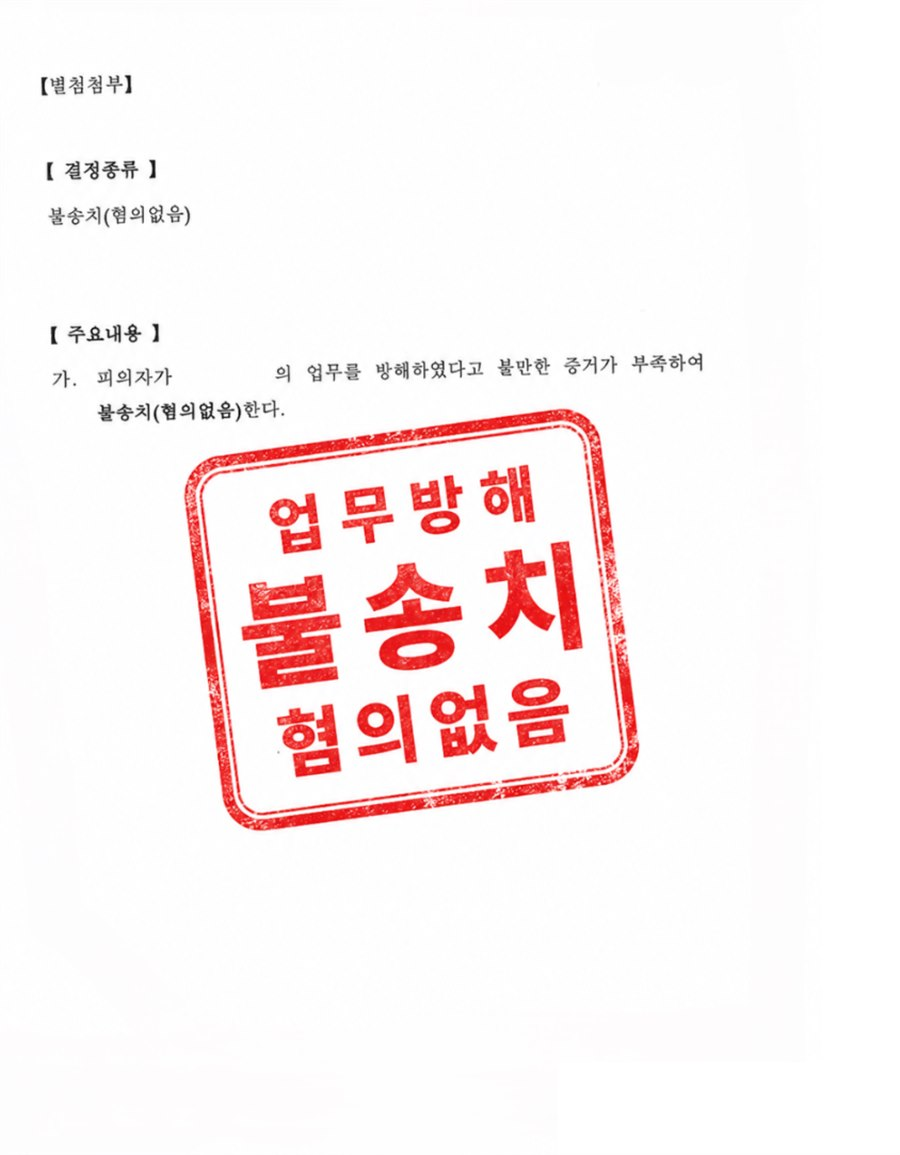
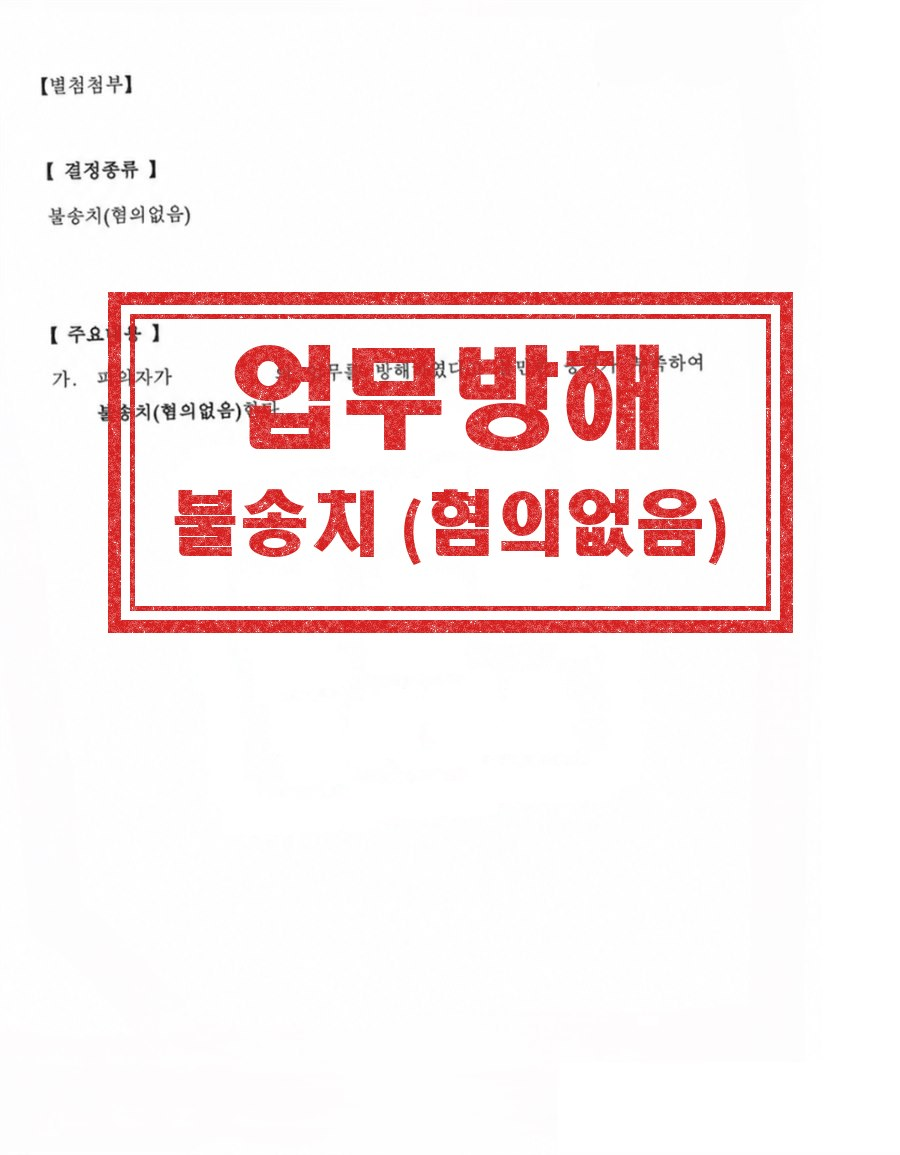
성공사례: 도장 통일(휴먼둥근헤드라인·고정 크기·무회전) 및 중앙 정렬 썸네일 17장 추가
Claude-Session: https://claude.ai/code/session_019BpyvRfw1kgAhxY1Ym6REe

Changed region(s): [[0.0933, 0.2494, 0.9022, 0.7169]]

diff --git a/results.html b/results.html
@@ -134,7 +134,7 @@
 
         <article class="case" data-cat="criminal">
           <a class="case__fig" href="images/case-01.jpg" target="_blank" rel="noopener">
-            <img src="images/case-01.jpg" alt="전북군산경찰서 불송치 결정서 — 건조물침입·권리행사방해 혐의없음" width="900" height="986" loading="lazy">
+            <img src="images/case-01-thumb.jpg" alt="전북군산경찰서 불송치 결정서 — 건조물침입·권리행사방해 혐의없음" width="1200" height="900" loading="lazy">
           </a>
           <div class="case__body">
             <div class="case__top"><span class="case__tag">형사 · 군형사</span></div>
@@ -149,7 +149,7 @@
 
         <article class="case" data-cat="criminal">
           <a class="case__fig" href="images/case-02.jpg" target="_blank" rel="noopener">
-            <img src="images/case-02.jpg" alt="불송치 결정서 별첨 — 허위사실적시 명예훼손 혐의없음" width="900" height="868" loading="lazy">
+            <img src="images/case-02-thumb.jpg" alt="불송치 결정서 별첨 — 허위사실적시 명예훼손 혐의없음" width="1200" height="900" loading="lazy">
           </a>
           <div class="case__body">
             <div class="case__top"><span class="case__tag">형사 · 군형사</span></div>
@@ -165,7 +165,7 @@
 
         <article class="case" data-cat="criminal">
           <a class="case__fig" href="images/case-03.jpg" target="_blank" rel="noopener">
-            <img src="images/case-03.jpg" alt="불송치 결정서 별첨 — 사문서위조 및 동행사 혐의없음" width="900" height="1229" loading="lazy">
+            <img src="images/case-03-thumb.jpg" alt="불송치 결정서 별첨 — 사문서위조 및 동행사 혐의없음" width="1200" height="900" loading="lazy">
           </a>
           <div class="case__body">
             <div class="case__top"><span class="case__tag">형사 · 군형사</span></div>
@@ -181,7 +181,7 @@
 
         <article class="case" data-cat="criminal">
           <a class="case__fig" href="images/case-04.jpg" target="_blank" rel="noopener">
-            <img src="images/case-04.jpg" alt="불송치 결정서 별첨 — 업무방해 혐의없음" width="900" height="1155" loading="lazy">
+            <img src="images/case-04-thumb.jpg" alt="불송치 결정서 별첨 — 업무방해 혐의없음" width="1200" height="900" loading="lazy">
           </a>
           <div class="case__body">
             <div class="case__top"><span class="case__tag">형사 · 군형사</span></div>
@@ -198,7 +198,7 @@
 
         <article class="case" data-cat="criminal">
           <a class="case__fig" href="images/case-05.jpg" target="_blank" rel="noopener">
-            <img src="images/case-05.jpg" alt="군검찰 피의사건 처분 결과 통지 — 직무수행군인등 상해 기소유예" width="900" height="1270" loading="lazy">
+            <img src="images/case-05-thumb.jpg" alt="군검찰 피의사건 처분 결과 통지 — 직무수행군인등 상해 기소유예" width="1200" height="900" loading="lazy">
           </a>
           <div class="case__body">
             <div class="case__top"><span class="case__tag">형사 · 군형사</span></div>
@@ -214,7 +214,7 @@
 
         <article class="case" data-cat="criminal">
           <a class="case__fig" href="images/case-06.jpg" target="_blank" rel="noopener">
-            <img src="images/case-06.jpg" alt="전북군산경찰서 수사결과 통지서 — 강제추행 고소대리, 검찰 송치 결정" width="900" height="1216" loading="lazy">
+            <img src="images/case-06-thumb.jpg" alt="전북군산경찰서 수사결과 통지서 — 강제추행 고소대리, 검찰 송치 결정" width="1200" height="900" loading="lazy">
           </a>
           <div class="case__body">
             <div class="case__top"><span class="case__tag">형사 · 군형사</span></div>
@@ -230,7 +230,7 @@
 
         <article class="case" data-cat="criminal">
           <a class="case__fig" href="images/case-07.jpg" target="_blank" rel="noopener">
-            <img src="images/case-07.jpg" alt="수사결과 통지서 별첨 — 체포 고소대리, 송치(불구속) 결정" width="900" height="1183" loading="lazy">
+            <img src="images/case-07-thumb.jpg" alt="수사결과 통지서 별첨 — 체포 고소대리, 송치(불구속) 결정" width="1200" height="900" loading="lazy">
           </a>
           <div class="case__body">
             <div class="case__top"><span class="case__tag">형사 · 군형사</span></div>
@@ -246,7 +246,7 @@
 
         <article class="case" data-cat="criminal">
           <a class="case__fig" href="images/case-08.jpg" target="_blank" rel="noopener">
-            <img src="images/case-08.jpg" alt="구속영장청구서 — 보이스피싱 구속영장 청구기각" width="900" height="1213" loading="lazy">
+            <img src="images/case-08-thumb.jpg" alt="구속영장청구서 — 보이스피싱 구속영장 청구기각" width="1200" height="900" loading="lazy">
           </a>
           <div class="case__body">
             <div class="case__top"><span class="case__tag">형사 · 군형사</span></div>
@@ -262,7 +262,7 @@
 
         <article class="case" data-cat="criminal">
           <a class="case__fig" href="images/case-09.jpg" target="_blank" rel="noopener">
-            <img src="images/case-09.jpg" alt="전북군산경찰서 수사결과 통지서 — 사기 불송치(혐의없음)" width="900" height="1297" loading="lazy">
+            <img src="images/case-09-thumb.jpg" alt="전북군산경찰서 수사결과 통지서 — 사기 불송치(혐의없음)" width="1200" height="900" loading="lazy">
           </a>
           <div class="case__body">
             <div class="case__top"><span class="case__tag">형사 · 군형사</span></div>
@@ -278,7 +278,7 @@
 
         <article class="case" data-cat="criminal">
           <a class="case__fig" href="images/case-10.jpg" target="_blank" rel="noopener">
-            <img src="images/case-10.jpg" alt="전주지방법원 군산지원 판결 — 사기·공갈·음란물유포 집행유예" width="1442" height="1091" loading="lazy">
+            <img src="images/case-10-thumb.jpg" alt="전주지방법원 군산지원 판결 — 사기·공갈·음란물유포 집행유예" width="1200" height="900" loading="lazy">
           </a>
           <div class="case__body">
             <div class="case__top"><span class="case__tag">형사 · 군형사</span></div>
@@ -294,7 +294,7 @@
 
         <article class="case" data-cat="criminal">
           <a class="case__fig" href="images/case-11.jpg" target="_blank" rel="noopener">
-            <img src="images/case-11.jpg" alt="강원영월경찰서 수사결과 통지서 — 사기 불송치(혐의없음)" width="900" height="1239" loading="lazy">
+            <img src="images/case-11-thumb.jpg" alt="강원영월경찰서 수사결과 통지서 — 사기 불송치(혐의없음)" width="1200" height="900" loading="lazy">
           </a>
           <div class="case__body">
             <div class="case__top"><span class="case__tag">형사 · 군형사</span></div>
@@ -309,7 +309,7 @@
 
         <article class="case" data-cat="criminal">
           <a class="case__fig" href="images/case-12.jpg" target="_blank" rel="noopener">
-            <img src="images/case-12.jpg" alt="전북군산경찰서 수사결과 통지서 — 특수강간 불송치(혐의없음)" width="900" height="1345" loading="lazy">
+            <img src="images/case-12-thumb.jpg" alt="전북군산경찰서 수사결과 통지서 — 특수강간 불송치(혐의없음)" width="1200" height="900" loading="lazy">
           </a>
           <div class="case__body">
             <div class="case__top"><span class="case__tag">형사 · 군형사</span></div>
@@ -326,7 +326,7 @@
 
         <article class="case" data-cat="criminal">
           <a class="case__fig" href="images/case-13.jpg" target="_blank" rel="noopener">
-            <img src="images/case-13.jpg" alt="전주지방법원 군산지원 판결 — 대부업법위반 집행유예" width="900" height="1279" loading="lazy">
+            <img src="images/case-13-thumb.jpg" alt="전주지방법원 군산지원 판결 — 대부업법위반 집행유예" width="1200" height="900" loading="lazy">
           </a>
           <div class="case__body">
             <div class="case__top"><span class="case__tag">형사 · 군형사</span></div>
@@ -341,7 +341,7 @@
 
         <article class="case" data-cat="criminal">
           <a class="case__fig" href="images/case-14.jpg" target="_blank" rel="noopener">
-            <img src="images/case-14.jpg" alt="전주지방검찰청 군산지청 불기소이유통지 — 특가법위반(도주치상) 혐의없음" width="900" height="1272" loading="lazy">
+            <img src="images/case-14-thumb.jpg" alt="전주지방검찰청 군산지청 불기소이유통지 — 특가법위반(도주치상) 혐의없음" width="1200" height="900" loading="lazy">
           </a>
           <div class="case__body">
             <div class="case__top"><span class="case__tag">형사 · 군형사</span></div>
@@ -357,7 +357,7 @@
 
         <article class="case" data-cat="criminal">
           <a class="case__fig" href="images/case-15.jpg" target="_blank" rel="noopener">
-            <img src="images/case-15.jpg" alt="전주지방법원 군산지원 판결 — 특가법위반(보복협박등) 집행유예" width="900" height="1289" loading="lazy">
+            <img src="images/case-15-thumb.jpg" alt="전주지방법원 군산지원 판결 — 특가법위반(보복협박등) 집행유예" width="1200" height="900" loading="lazy">
           </a>
           <div class="case__body">
             <div class="case__top"><span class="case__tag">형사 · 군형사</span></div>
@@ -373,7 +373,7 @@
 
         <article class="case" data-cat="criminal">
           <a class="case__fig" href="images/case-16.jpg" target="_blank" rel="noopener">
-            <img src="images/case-16.jpg" alt="전주지방법원 제2형사부 판결 — 교특법위반(치상)·음주운전 원심파기 집행유예" width="900" height="1282" loading="lazy">
+            <img src="images/case-16-thumb.jpg" alt="전주지방법원 제2형사부 판결 — 교특법위반(치상)·음주운전 원심파기 집행유예" width="1200" height="900" loading="lazy">
           </a>
           <div class="case__body">
             <div class="case__top"><span class="case__tag">형사 · 군형사</span></div>
@@ -389,7 +389,7 @@
 
         <article class="case" data-cat="criminal">
           <a class="case__fig" href="images/case-17.jpg" target="_blank" rel="noopener">
-            <img src="images/case-17.jpg" alt="전주지방법원 군산지원 판결 — 교통사고처리특례법위반(치상) 집행유예" width="900" height="1274" loading="lazy">
+            <img src="images/case-17-thumb.jpg" alt="전주지방법원 군산지원 판결 — 교통사고처리특례법위반(치상) 집행유예" width="1200" height="900" loading="lazy">
           </a>
           <div class="case__body">
             <div class="case__top"><span class="case__tag">형사 · 군형사</span></div>

diff --git a/css/style.css b/css/style.css
@@ -1151,7 +1151,7 @@ body.nav-open { overflow: hidden; }
   width: 100%;
   aspect-ratio: 4 / 3;
   object-fit: cover;
-  object-position: 50% 30%;
+  object-position: 50% 50%;
   transition: transform .6s var(--ease);
 }
 .case__fig:hover img { transform: scale(1.035); }

diff --git a/tools/restamp.py b/tools/restamp.py
@@ -1,0 +1,127 @@
+#!/usr/bin/env python3
+"""성공사례 썸네일: 기존 빨간 도장 제거 → 통일된 도장 합성.
+- 서체: 휴먼둥근헤드라인 (HMKMRHD.TTF)
+- 도장 크기 고정(이미지 폭의 74%), 윗줄·아랫줄 같은 글자 크기, 기울기 없음, 겹테두리
+usage: restamp.py <in.jpg> <out.jpg> "<윗줄(사건명)>" "<아랫줄(결과)>"
+"""
+import sys, numpy as np
+from PIL import Image, ImageDraw, ImageFont, ImageFilter
+
+FONT = "/home/claude/fonts/HMKMRHD.TTF"
+FONT2 = "/usr/share/fonts/opentype/noto/NotoSansCJK-Black.ttc"   # 괄호·기호용(휴먼둥근헤드라인은 기호가 전각)
+RED = (214, 32, 32)
+SYM = set("()·,./-")
+
+def segments(text, size):
+    """글자를 (문자열, 폰트) 조각으로 나눔. 공백은 글자 크기의 28% 간격으로 처리."""
+    fk = ImageFont.truetype(FONT, size)
+    fs = ImageFont.truetype(FONT2, size=int(size * 0.92), index=2)
+    out, cur, curf = [], "", None
+    for ch in text:
+        if ch == " ":
+            if cur: out.append((cur, curf)); cur, curf = "", None
+            out.append((None, int(size * 0.28)))
+            continue
+        f = fs if ch in SYM else fk
+        if curf is None or f is curf: cur += ch; curf = f
+        else: out.append((cur, curf)); cur, curf = ch, f
+    if cur: out.append((cur, curf))
+    return out
+
+def seg_width(segs):
+    d = ImageDraw.Draw(Image.new("RGB", (4, 4)))
+    w = 0
+    for t, f in segs:
+        w += f if t is None else d.textbbox((0, 0), t, font=f)[2] - d.textbbox((0, 0), t, font=f)[0]
+    return w
+
+def draw_line(d, cx, cy, text, size, fill):
+    segs = segments(text, size)
+    x = cx - seg_width(segs) / 2
+    for t, f in segs:
+        if t is None: x += f; continue
+        bb = d.textbbox((0, 0), t, font=f)
+        d.text((x - bb[0], cy), t, font=f, fill=fill, anchor="lm")
+        x += bb[2] - bb[0]
+
+def clean(im):
+    a = np.array(im.convert("RGB")).astype(int)
+    r, g, b = a[..., 0], a[..., 1], a[..., 2]
+    sat = r - np.minimum(g, b)
+    red = ((sat > 10) & (r > 80)) | ((sat > 2) & (r > 190))
+    m = Image.fromarray((red * 255).astype("uint8")).filter(ImageFilter.MaxFilter(5))
+    a[np.array(m) > 0] = [255, 255, 255]
+    return Image.fromarray(a.astype("uint8"))
+
+def size_fit(text, size, limit):
+    while seg_width(segments(text, size)) > limit and size > 30:
+        size -= 2
+    return size
+
+def stamp(im, top, bottom, cy=None):
+    W, H = im.size
+    base = W / 900
+    # 고정 치수
+    box_w = int(W * 0.70)
+    outer, space, inner = int(13 * base), int(9 * base), int(5 * base)
+    frame = outer + space + inner
+    pad_y, gap = int(22 * base), int(6 * base)
+    size = int(110 * base)
+    text_limit = box_w - int(30 * base) * 2
+    st = size_fit(top, size, text_limit)
+    sb = size_fit(bottom, size, text_limit)
+    line_h = int(size * 1.08)                       # 두 줄 높이는 글자 크기와 무관하게 고정
+    box_h = line_h * 2 + gap + pad_y * 2
+
+    L = Image.new("RGBA", (box_w + frame * 2 + 20, box_h + frame * 2 + 20), (0, 0, 0, 0))
+    d = ImageDraw.Draw(L)
+    ox = oy = 10
+    d.rectangle([ox, oy, ox + box_w + frame * 2, oy + box_h + frame * 2], outline=RED + (255,), width=outer)
+    d.rectangle([ox + outer + space, oy + outer + space,
+                 ox + outer + space + box_w + inner * 2, oy + outer + space + box_h + inner * 2],
+                outline=RED + (255,), width=inner)
+    cx = ox + frame + box_w / 2
+    y1 = oy + frame + pad_y + line_h / 2
+    y2 = y1 + line_h + gap
+    draw_line(d, cx, y1, top, st, RED + (255,))
+    draw_line(d, cx, y2, bottom, sb, RED + (255,))
+
+    # 고무도장 질감
+    rng = np.random.default_rng(13)
+    n1 = Image.fromarray((rng.random((L.height // 3 + 1, L.width // 3 + 1)) * 255).astype("uint8")).resize(L.size, Image.BILINEAR)
+    n2 = Image.fromarray((rng.random((L.height, L.width)) * 255).astype("uint8"))
+    tex = np.array(n1).astype(float) / 255 * 0.55 + np.array(n2).astype(float) / 255 * 0.45
+    arr = np.array(L); al = arr[..., 3].astype(float)
+    al = al * np.clip(0.55 + 0.75 * tex, 0, 1)
+    al[tex < 0.14] *= 0.35
+    arr[..., 3] = al.astype("uint8")
+    L = Image.fromarray(arr)
+
+    x = (W - L.width) // 2
+    y = int((H * 0.40 if cy is None else cy) - L.height / 2)
+    out = im.convert("RGBA")
+    out.alpha_composite(L, (max(0, x), max(0, y)))
+    return out.convert("RGB")
+
+def thumb(im_clean, top, bottom, W=1200, H=900):
+    """카드용 4:3 썸네일: 문서 상단부를 잘라 깔고, 도장을 정중앙에 같은 크기로 찍는다."""
+    im = im_clean.convert("RGB")
+    s = W / im.width
+    im = im.resize((W, int(im.height * s)), Image.LANCZOS)
+    if im.height >= H:
+        y0 = int(min(max(im.height * 0.30 - H / 2, 0), im.height - H))
+        im = im.crop((0, y0, W, y0 + H))
+    else:
+        canvas = Image.new("RGB", (W, H), "white"); canvas.paste(im, (0, 0)); im = canvas
+    return stamp_at(im, top, bottom, cy=H / 2)
+
+def stamp_at(im, top, bottom, cy):
+    return stamp(im, top, bottom, cy=cy)
+
+
+if __name__ == "__main__":
+    src, dst, top, bottom = sys.argv[1:5]
+    cl = clean(Image.open(src))
+    stamp(cl, top, bottom).save(dst, quality=88, optimize=True)
+    if len(sys.argv) > 5:
+        thumb(cl, top, bottom).save(sys.argv[5], quality=85, optimize=True)

diff --git a/tools/restamp_all.py b/tools/restamp_all.py
@@ -1,0 +1,24 @@
+import subprocess, os, sys
+from PIL import Image, ImageDraw
+os.chdir(os.path.dirname(os.path.dirname(os.path.abspath(__file__))))
+LABELS={
+ '01':('건조물침입·권리행사방해','불송치 (혐의없음)'),'02':('허위사실적시 명예훼손','불송치 (혐의없음)'),
+ '03':('사문서위조 및 동행사','불송치 (혐의없음)'),'04':('업무방해','불송치 (혐의없음)'),
+ '05':('직무수행군인등 상해','기소유예'),'06':('강제추행 고소대리','검찰 송치'),'07':('체포 고소대리','검찰 송치'),
+ '08':('보이스피싱 구속영장 청구','구속영장 기각'),'09':('사기','불송치 (혐의없음)'),
+ '10':('사기·공갈·음란물 유포','집행유예'),'11':('사기','불송치 (혐의없음)'),'12':('특수강간','불송치 (혐의없음)'),
+ '13':('대부업법 위반','집행유예'),'14':('특가법 위반 (도주치상)','불기소'),
+ '15':('보복협박·특수협박·주거침입','집행유예'),'16':('교특법 위반 (치상)·음주운전','집행유예'),'17':('교특법 위반 (치상)','집행유예'),
+}
+out=sys.argv[1] if len(sys.argv)>1 else '/tmp/restamp'
+os.makedirs(out,exist_ok=True)
+for n,(t,b) in LABELS.items():
+    subprocess.run(['python3','tools/restamp.py',f'images/case-{n}.jpg',f'{out}/case-{n}.jpg',t,b,f'{out}/case-{n}-thumb.jpg'],check=True)
+tiles=[]
+for n in LABELS:
+    im=Image.open(f'{out}/case-{n}.jpg'); h=560; im=im.resize((int(im.width*h/im.height),h))
+    c=Image.new('RGB',(im.width,h+34),'white'); c.paste(im,(0,34)); ImageDraw.Draw(c).text((8,6),n,fill='black'); tiles.append(c)
+cols=6; rows=(len(tiles)+cols-1)//cols; tw=max(t.width for t in tiles); th=tiles[0].height
+sheet=Image.new('RGB',(cols*(tw+8),rows*(th+8)),'#ddd')
+for i,t in enumerate(tiles): sheet.paste(t,((i%cols)*(tw+8),(i//cols)*(th+8)))
+sheet.save('/home/claude/stamp_preview_all.jpg',quality=80)
